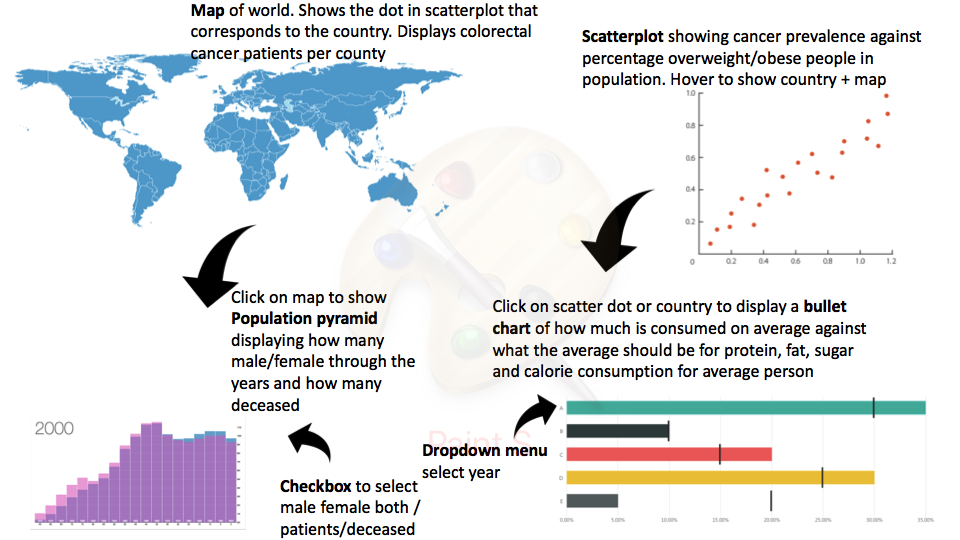
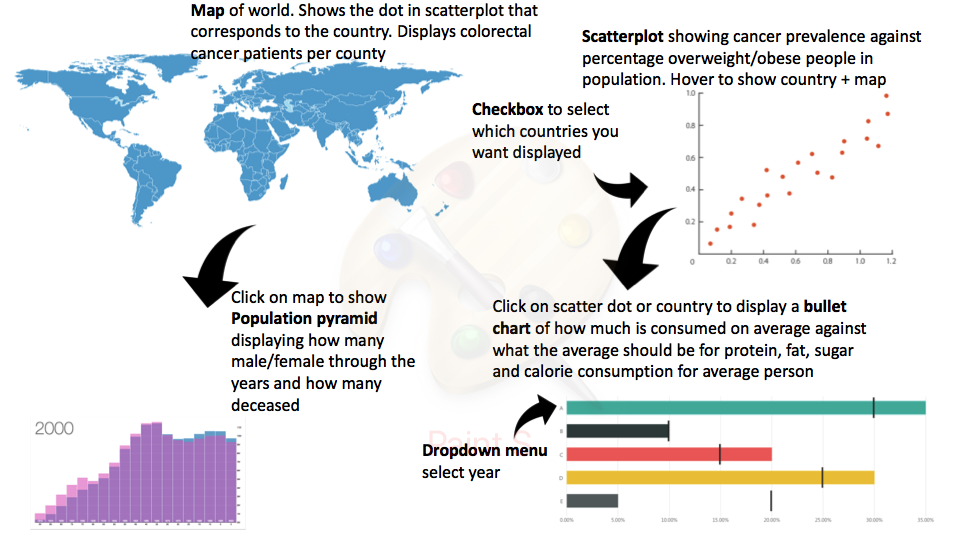
DESIGN update

diff --git a/DESIGN.md b/DESIGN.md
@@ -1,4 +1,4 @@
-#DESIGN DOCUMENT:
+# DESIGN DOCUMENT:
 
 Sylvie Langhout - 10792368
 
@@ -6,23 +6,24 @@ Programmeerproject Minor Programmeren
 
 06/06/2018
 
-# DATA SOURCES:
+# Data sources:
 
  [OECD](http://stats.oecd.org/#)
  - Colorectal cancer statistics, incidence per 100.000 citizens per country for the years 2000, 2002, 2008, 2012. This can be displayed in the world map, showing the difference for the countries and where the colorectal cancer prevalence is highest. 
  - Obesity statistics, % of the population. This can be displayed against the colorectal cancer incidence, showing if people who eat bad (obese) in a country also have more people with colorectal cancer. Then you can click on a country and display what the food supply in that country is like and what people eat. 
- - Food supply, the sugar supply, fat supply, protein supply, vegetable supply and fruit supply for the countries. From this I can calculate what the average countries' supply is and set this in the bullet chart to compare the different countries to eachother. 
- - Colorectal cancer mortality, number of deaths female, male and both for the years 2000 - 2015. This can then be displayed in a population pyramid seeing the change over the years. 
+ - Food supply, the sugar supply, fat supply, protein supply, vegetable supply and fruit supply for the countries. From this I can calculate what the average countries' supply is and set this in the bullet chart to compare the different countries to eachother. This can also be displayed by searching for a country in a Search bar.
+ - Colorectal cancer mortality, number of deaths female, male and both for the years 2000 - 2015. This can then be displayed in a population pyramid seeing the change over the years. Slider to side through the countries. This is optional and extra if time. 
+ - Dropdown menu to select a year for your data of the map and of the bullet chart
 
 
  CSV files, converted to JSON by convertCSV2JSON.py, file made in dataprocessing. All data files can be found in the folder data. I will extract the necessary data from these files, the necessary data is described above. 
 
-# TECHNICAL COMPONENTS:
+# Technical Components
 
 ![](doc/chart_visualistion.png)
 
 
-# FUNCTIONS:
+# Functions:
 
 ![](doc/functions.png)
 
